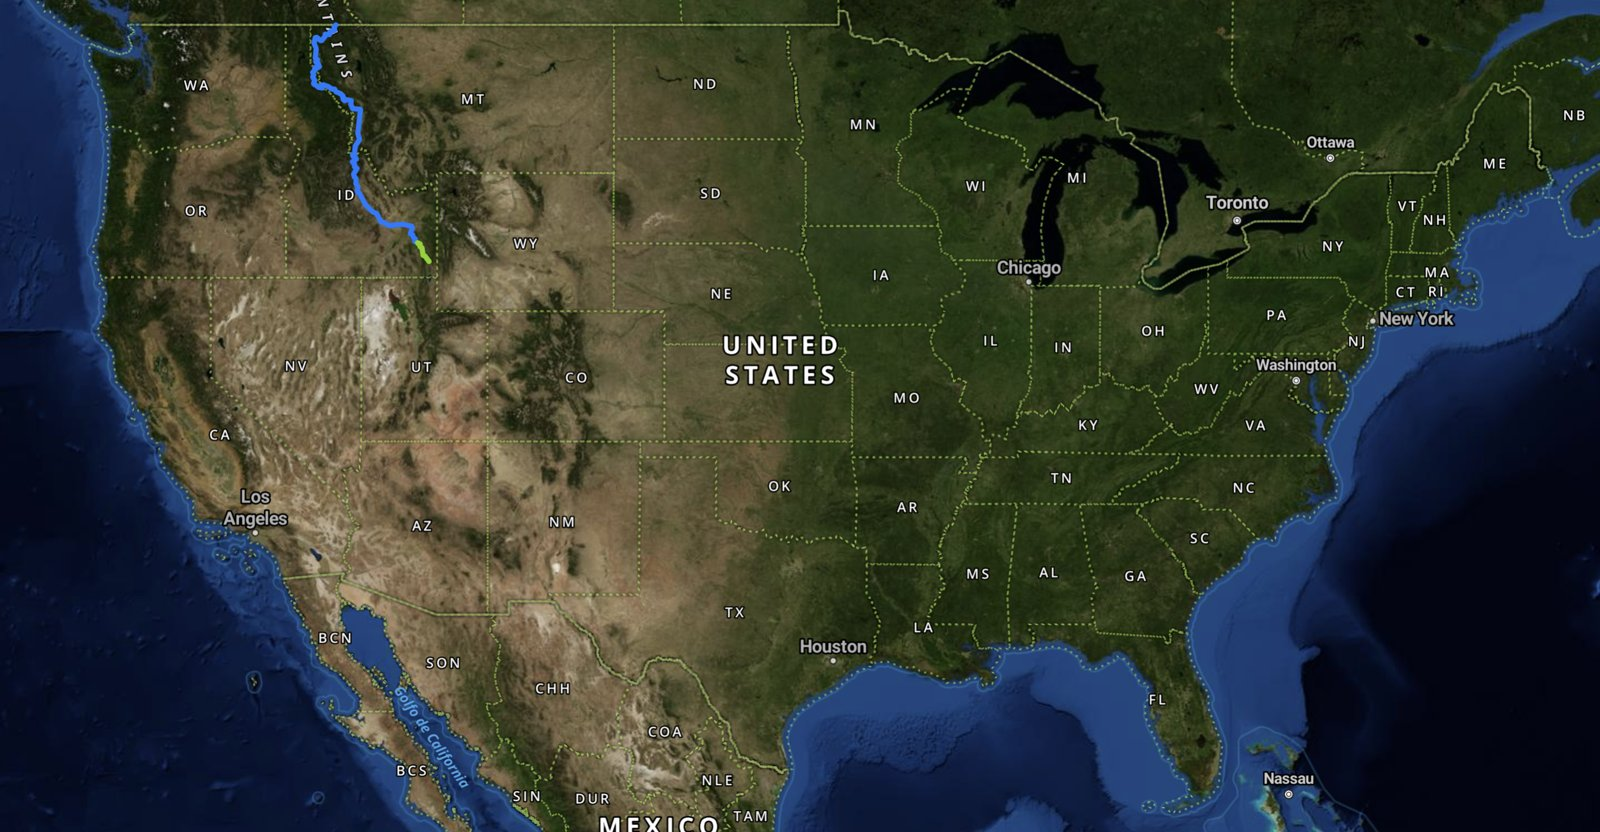
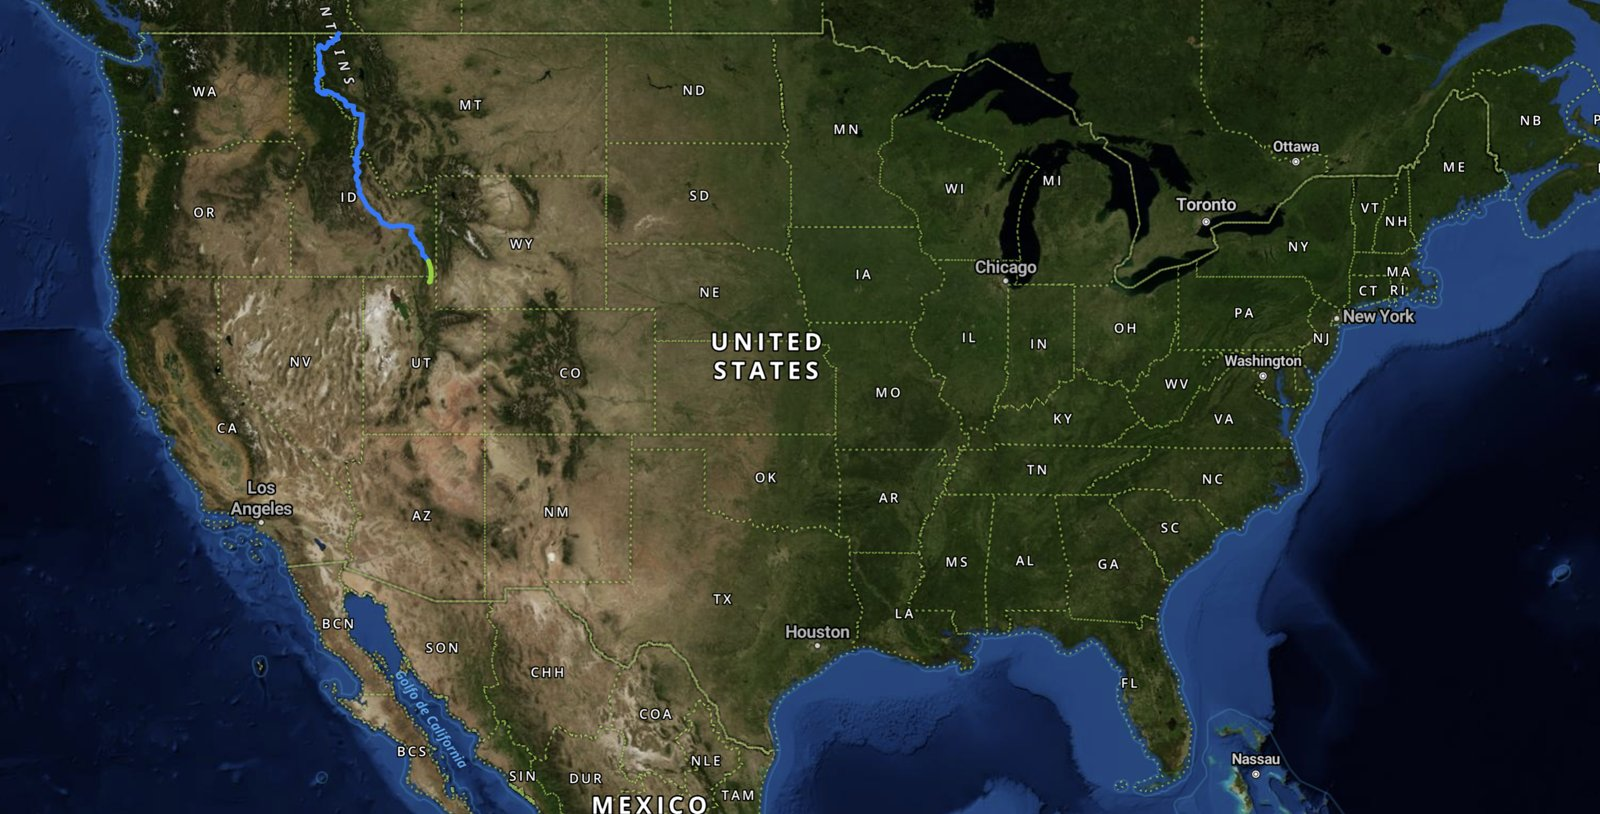
Progress map through day 18

diff --git a/rick/data.js b/rick/data.js
@@ -107,7 +107,7 @@ const LOCATION = {lat:41.84633, lng:-111.33994, town:"Rendezvous Beach", state:"
 const STATUS = "Rick is in Utah. Day 18 took him from Georgetown through Dingle, Idaho, and across the state line at the North Eden entrance to Bear Lake State Park, then down the east shore to camp at Rendezvous Beach on the south end of the lake: 51.5 miles with only 778 ft of climbing. That closes out segment 4, two days ahead of its Sept 25 plan date, and starts segment 5 toward Soldier Summit.";
 // Cover photo for the top of the tracker page (file name without .jpg, from rick/photos/). Use a wide crop; the bottom third fades into the page.
 // Zoomed-out map of the whole West with Rick's track so far (screenshot from the Windy/onX view). Re-shoot every few days, overwrite the same file, update asOf.
-const PROGRESS_MAP = {file:"wwr-progress-map", asOf:"Sept 22, 2026, end of day 17", caption:"Blue and green in the northwest is Rick's track so far, Roosville to Georgetown in southeast Idaho, with day 17 in green near the Wyoming and Utah corner. The route runs south through Utah and Arizona to the Mexican border at Sierra Vista."};
+const PROGRESS_MAP = {file:"wwr-progress-map", asOf:"Sept 23, 2026, end of day 18", caption:"Blue and green in the northwest is Rick's track so far, Roosville to Bear Lake on the Idaho and Utah line, with day 18 in green. The route runs south through Utah and Arizona to the Mexican border at Sierra Vista."};
 const COVER = "2026-09-06-roosville-start-cover";
 
 // Photos: file names live in rick/photos/. Add the full-size jpg plus a -thumb.jpg. Newest first.
